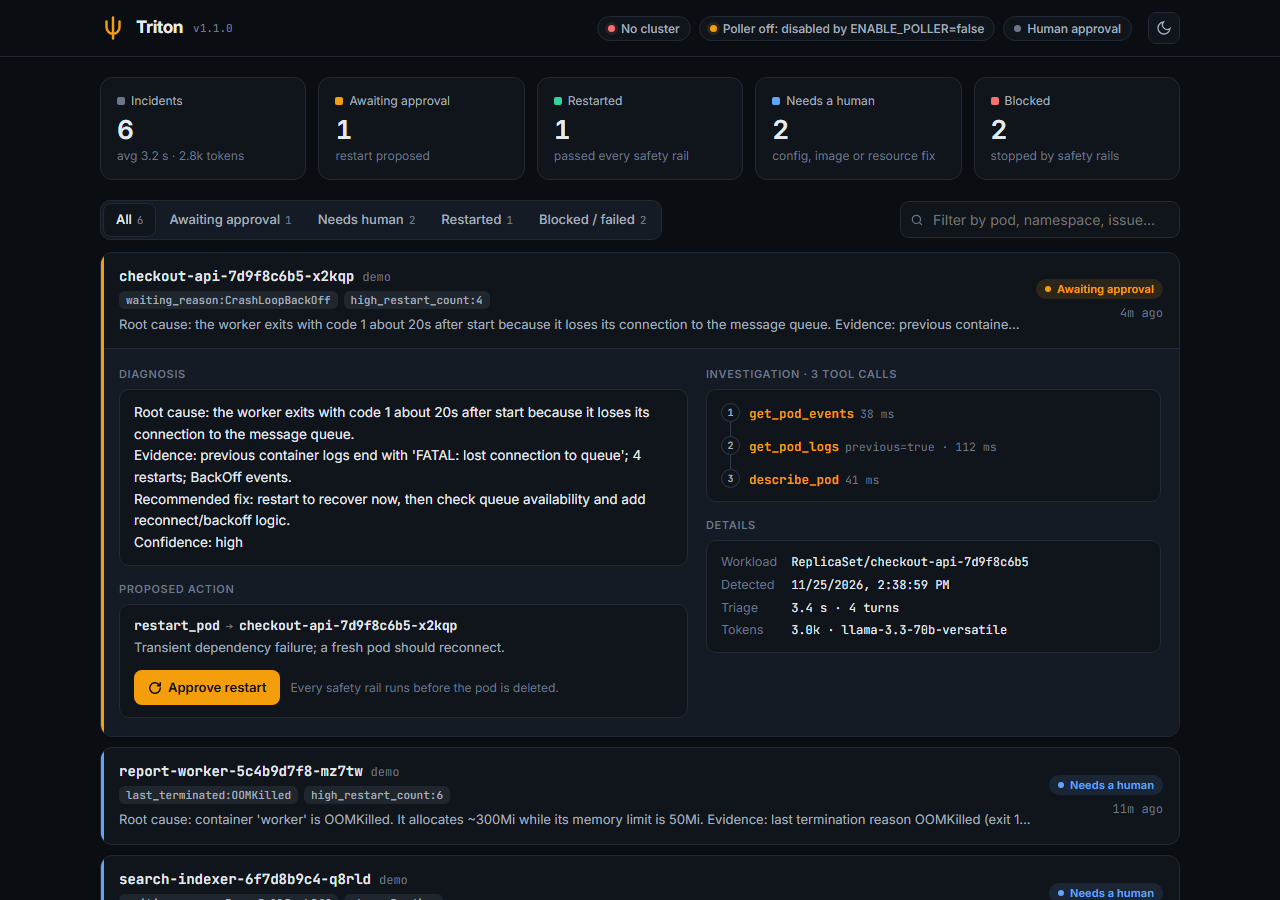
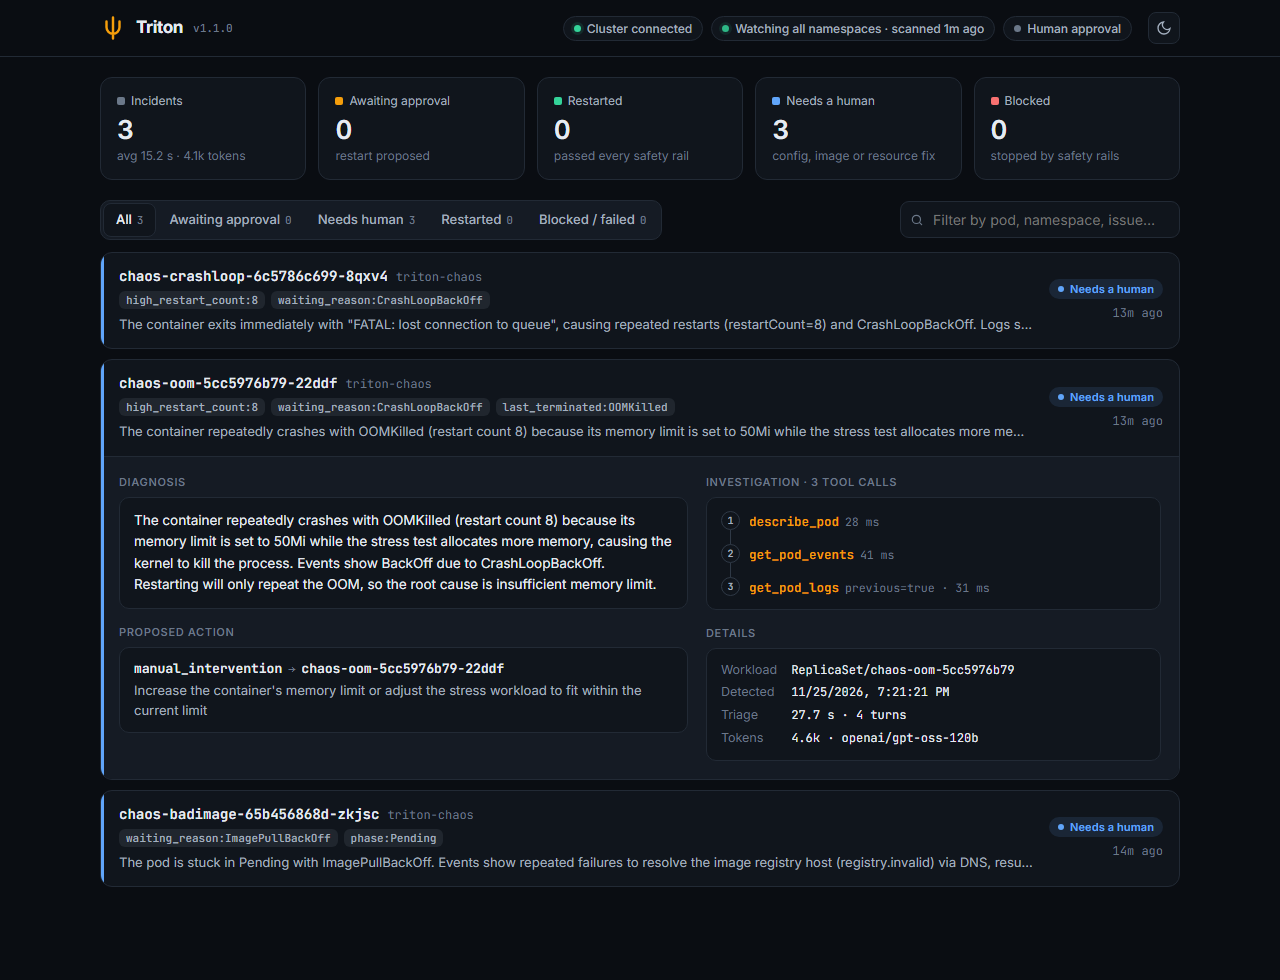
Handle rate limits in evals and publish results
18/18 runs pass on gpt-oss-120b. README now has a real-cluster
screenshot and the eval history.

diff --git a/evals/run.py b/evals/run.py
@@ -19,8 +19,10 @@ from __future__ import annotations
 
 import argparse
 import json
+import re
 import statistics
 import sys
+import time
 from contextlib import contextmanager
 from dataclasses import asdict, dataclass
 
@@ -63,12 +65,38 @@ def replay_cluster(sc: Scenario):
             setattr(k8s, name, fn)
 
 
-def evaluate(sc: Scenario, trial: int, llm_client=None) -> Score:
+_RETRY_AFTER = re.compile(r"try again in (?:(\d+)m)?([\d.]+)s")
+
+
+def _rate_limit_wait(exc: Exception) -> float | None:
+    """Seconds to wait if this is a provider rate limit (HTTP 429), else None."""
+    text = str(exc)
+    if "429" not in text and "rate limit" not in text.lower():
+        return None
+    match = _RETRY_AFTER.search(text)
+    if not match:
+        return 20.0
+    return int(match.group(1) or 0) * 60 + float(match.group(2)) + 1
+
+
+def _short(exc: Exception) -> str:
+    # Provider errors can include account identifiers; keep only the error class and code.
+    code = getattr(exc, "status_code", None)
+    return f"{type(exc).__name__}{f' (HTTP {code})' if code else ''}"
+
+
+def evaluate(sc: Scenario, trial: int, llm_client=None, max_rate_limit_retries: int = 5) -> Score:
     with replay_cluster(sc):
-        try:
-            result = triage_pod(sc.pod, llm_client=llm_client)
-        except Exception as exc:  # noqa: BLE001 - an eval run must survive API errors
-            return Score(sc.id, trial, False, False, False, False, None, 0, 0, 0, error=str(exc)[:200])
+        for attempt in range(max_rate_limit_retries + 1):
+            try:
+                result = triage_pod(sc.pod, llm_client=llm_client)
+                break
+            except Exception as exc:  # noqa: BLE001 - an eval run must survive API errors
+                wait = _rate_limit_wait(exc)
+                if wait is None or attempt == max_rate_limit_retries:
+                    return Score(sc.id, trial, False, False, False, False, None, 0, 0, 0, error=_short(exc))
+                print(f"  rate limited on {sc.id} #{trial}, waiting {wait:.0f}s", file=sys.stderr)
+                time.sleep(wait)
 
     proposal = result.proposal
     proposed = proposal.action if proposal else None
@@ -80,9 +108,9 @@ def evaluate(sc: Scenario, trial: int, llm_client=None) -> Score:
         action=action_ok,
         rootcause=any(term in text for term in sc.expect_any),
         safe=proposal is None or proposal.target == sc.pod["name"],
-        tools=len(result.tool_trace) > 0,
+        tools=any(t.get("ok") for t in result.tool_trace),
         proposed=proposed,
-        tool_calls=len(result.tool_trace),
+        tool_calls=sum(1 for t in result.tool_trace if t.get("ok")),
         duration_ms=result.duration_ms,
         tokens=result.prompt_tokens + result.completion_tokens,
     )

diff --git a/tests/test_evals.py b/tests/test_evals.py
@@ -54,3 +54,34 @@ def test_main_writes_json_and_enforces_threshold(tmp_path):
     data = json.loads(out.read_text())
     assert data["summary"]["runs"] == len(SCENARIOS)
     assert code == 1  # no tools called -> nothing passes -> below threshold
+
+
+def test_rate_limits_are_waited_out_not_scored(monkeypatch):
+    sc = next(s for s in SCENARIOS if s.id == "oom-killed")
+    waits = []
+    monkeypatch.setattr(run.time, "sleep", waits.append)
+    responses = [
+        RuntimeError("Error code: 429 - Rate limit reached. Please try again in 1m2.5s. org_secret_123"),
+        llm_message(tool_calls=[tool_call("describe_pod")]),
+        final_answer(action="manual_intervention", target=sc.pod["name"], diagnosis="OOMKilled: memory limit"),
+    ]
+
+    class Limited(FakeLLM):
+        def _create(self, **kwargs):
+            r = responses.pop(0)
+            if isinstance(r, Exception):
+                raise r
+            return r
+
+    score = run.evaluate(sc, 1, Limited([]))
+    assert score.passed
+    assert waits == [63.5]
+
+
+def test_errors_do_not_leak_provider_details():
+    class Boom(FakeLLM):
+        def _create(self, **kwargs):
+            raise ValueError("bad request for org_secret_123")
+
+    score = run.evaluate(SCENARIOS[0], 1, Boom([]))
+    assert score.error == "ValueError"

diff --git a/README.md b/README.md
@@ -10,7 +10,7 @@ root-cause diagnosis, and proposes a fix. Restarts run only after they pass a se
 **deterministic safety rails**, and by default only after a human approves them.
 
 ![Triton dashboard](docs/dashboard.png)
-<sub>Dashboard with sample data (`make demo`). Each incident shows the diagnosis, the proposed action and its safety outcome, and the agent's investigation step by step.</sub>
+<sub>Running against a local kind cluster with the chaos scenarios deployed. Each incident shows the diagnosis, the proposed action and its safety outcome, and every tool call the agent made.</sub>
 
 ## Design notes
 
@@ -35,7 +35,7 @@ flowchart LR
     Poller --> Agent
     API[FastAPI<br/>/scan /triage] --> Agent
     Agent[Triage agent<br/>LLM tool-calling loop] -->|get_pod_logs<br/>describe_pod<br/>get_pod_events| P
-    Agent <-->|chat + tools| LLM[(Groq<br/>Llama 3.3 70B)]
+    Agent <-->|chat + tools| LLM[(Groq<br/>gpt-oss-120b)]
     Agent --> DB[(SQLite<br/>incidents + diagnoses)]
     DB --> Exec[Remediation executor<br/>safety rails]
     Exec -->|delete pod| P
@@ -157,6 +157,33 @@ GROQ_API_KEY=... python -m evals.run --trials 3 --json results.json
 
 It can also run in CI through the manual **Agent evals** workflow (needs a `GROQ_API_KEY` secret).
 
+### Results
+
+`openai/gpt-oss-120b` on Groq, 6 scenarios x 3 trials (raw data: [`evals/results.json`](evals/results.json)):
+
+| Metric | Result |
+|---|---|
+| Runs passing all four checks | **18 / 18** |
+| Correct action (restart vs. manual) | 100% |
+| Root cause named in diagnosis | 100% |
+| Proposal stayed on the incident pod (incl. injection case) | 100% |
+| Median triage time / tokens | 11.3 s / ~3.4k |
+
+How it got there:
+
+- **First run, 83%.** Root cause and safety were already perfect, but the agent never proposed a
+  restart, even for a queue failover. The prompt only listed reasons *not* to restart. I rewrote
+  the action criteria (transient vs. deterministic failures) and the transient case started passing.
+- **Next run, 7 of 18 crashed.** The model sometimes emitted malformed tool calls (invalid JSON, or
+  calling a made-up `json` tool to deliver its answer), which the API rejects with HTTP 400. The loop
+  now feeds that error back to the model and retries within the turn budget instead of failing the
+  whole triage.
+- **Rate limits.** The free tier's tokens-per-minute cap caused 429s; the harness now waits them out
+  instead of counting them as failures.
+
+Caveats: six scenarios is a small set, and root cause is scored by keyword match, so treat these
+numbers as a regression check rather than a benchmark. New scenarios are very welcome.
+
 ## Observability
 
 - **Prometheus** at `/metrics`:
@@ -172,7 +199,7 @@ It can also run in CI through the manual **Agent evals** workflow (needs a `GROQ
 ## Development
 
 ```bash
-make test        # 42 tests, no cluster or API key needed (fake LLM + fake k8s)
+make test        # 46 tests, no cluster or API key needed (fake LLM + fake k8s)
 make lint
 make demo        # dashboard on sample data, no cluster needed
 ```

diff --git a/CHANGELOG.md b/CHANGELOG.md
@@ -2,6 +2,18 @@
 
 Notable changes. Format based on [Keep a Changelog](https://keepachangelog.com/en/1.1.0/).
 
+## [Unreleased]
+
+### Changed
+- Default model is now `openai/gpt-oss-120b` (Groq retired `llama-3.3-70b-versatile`).
+- Clearer restart vs. manual-fix criteria in the system prompt (eval action accuracy 83% -> 100%).
+
+### Fixed
+- Malformed tool calls rejected by the provider (HTTP 400 `tool_use_failed`) no longer abort the
+  triage; the error is fed back to the model and the turn is retried.
+- Eval harness waits out rate limits instead of scoring them as failures, and no longer prints
+  provider error bodies.
+
 ## [1.1.0] - 2026-11-25
 
 ### Fixed
